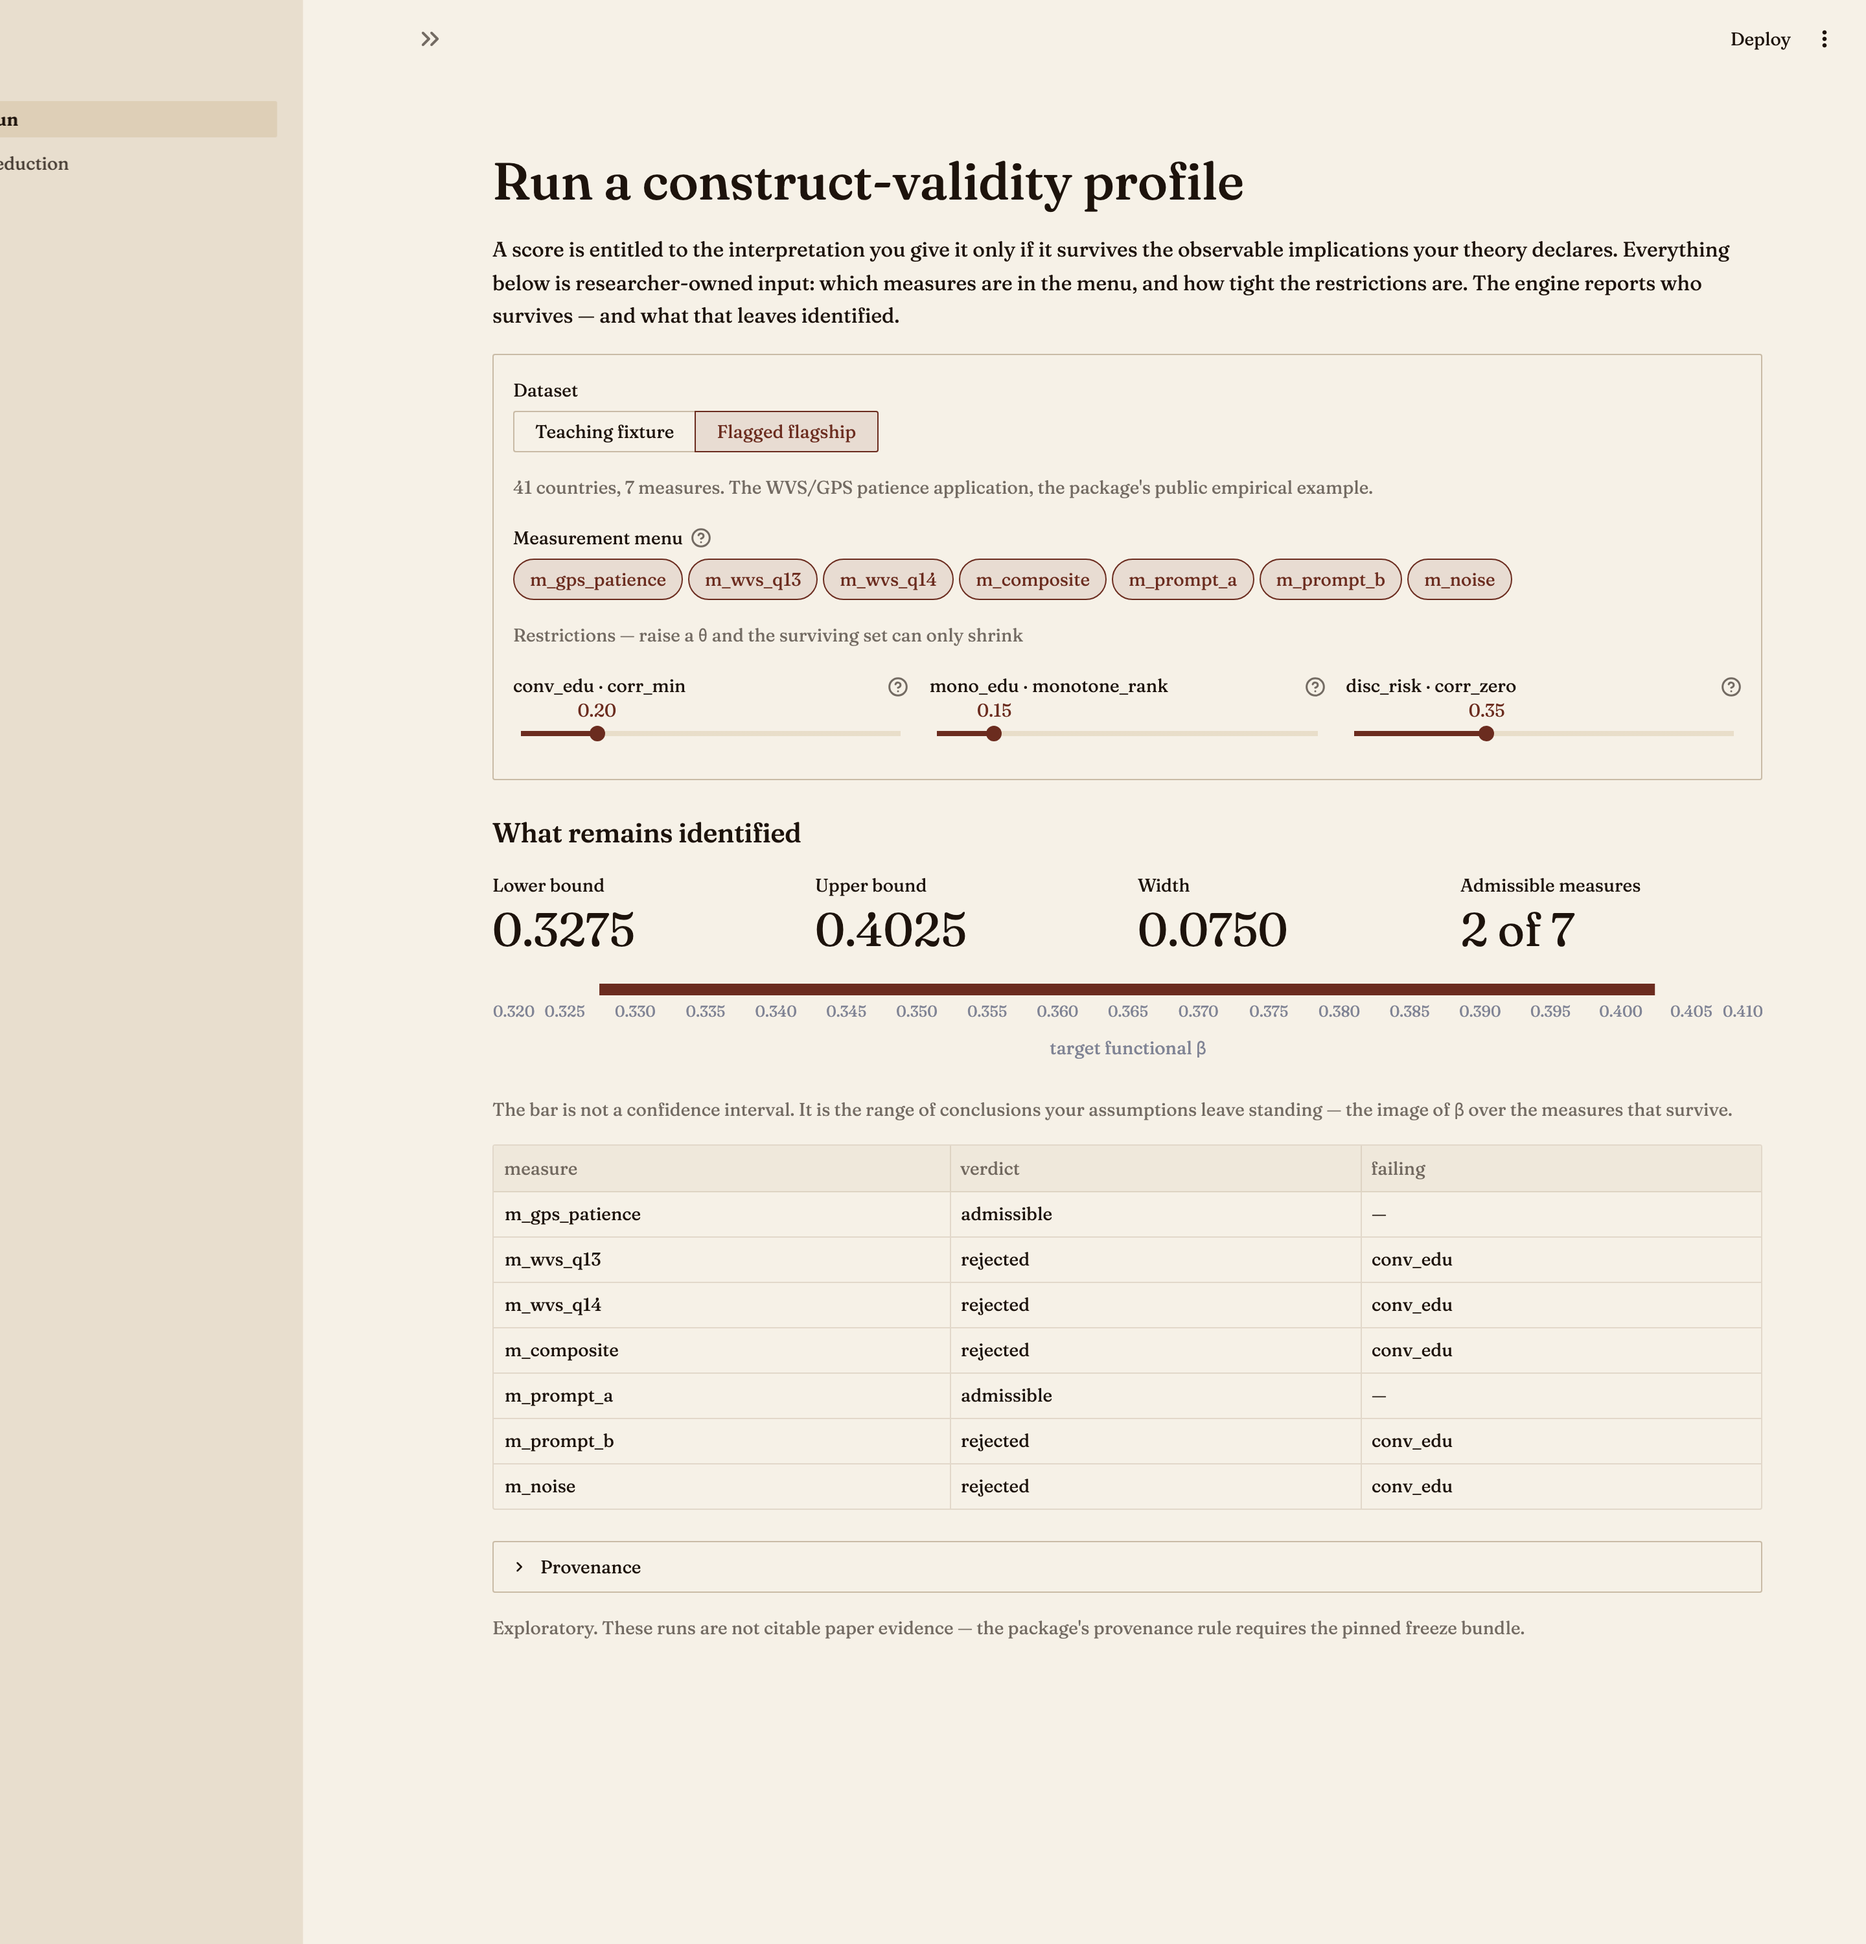
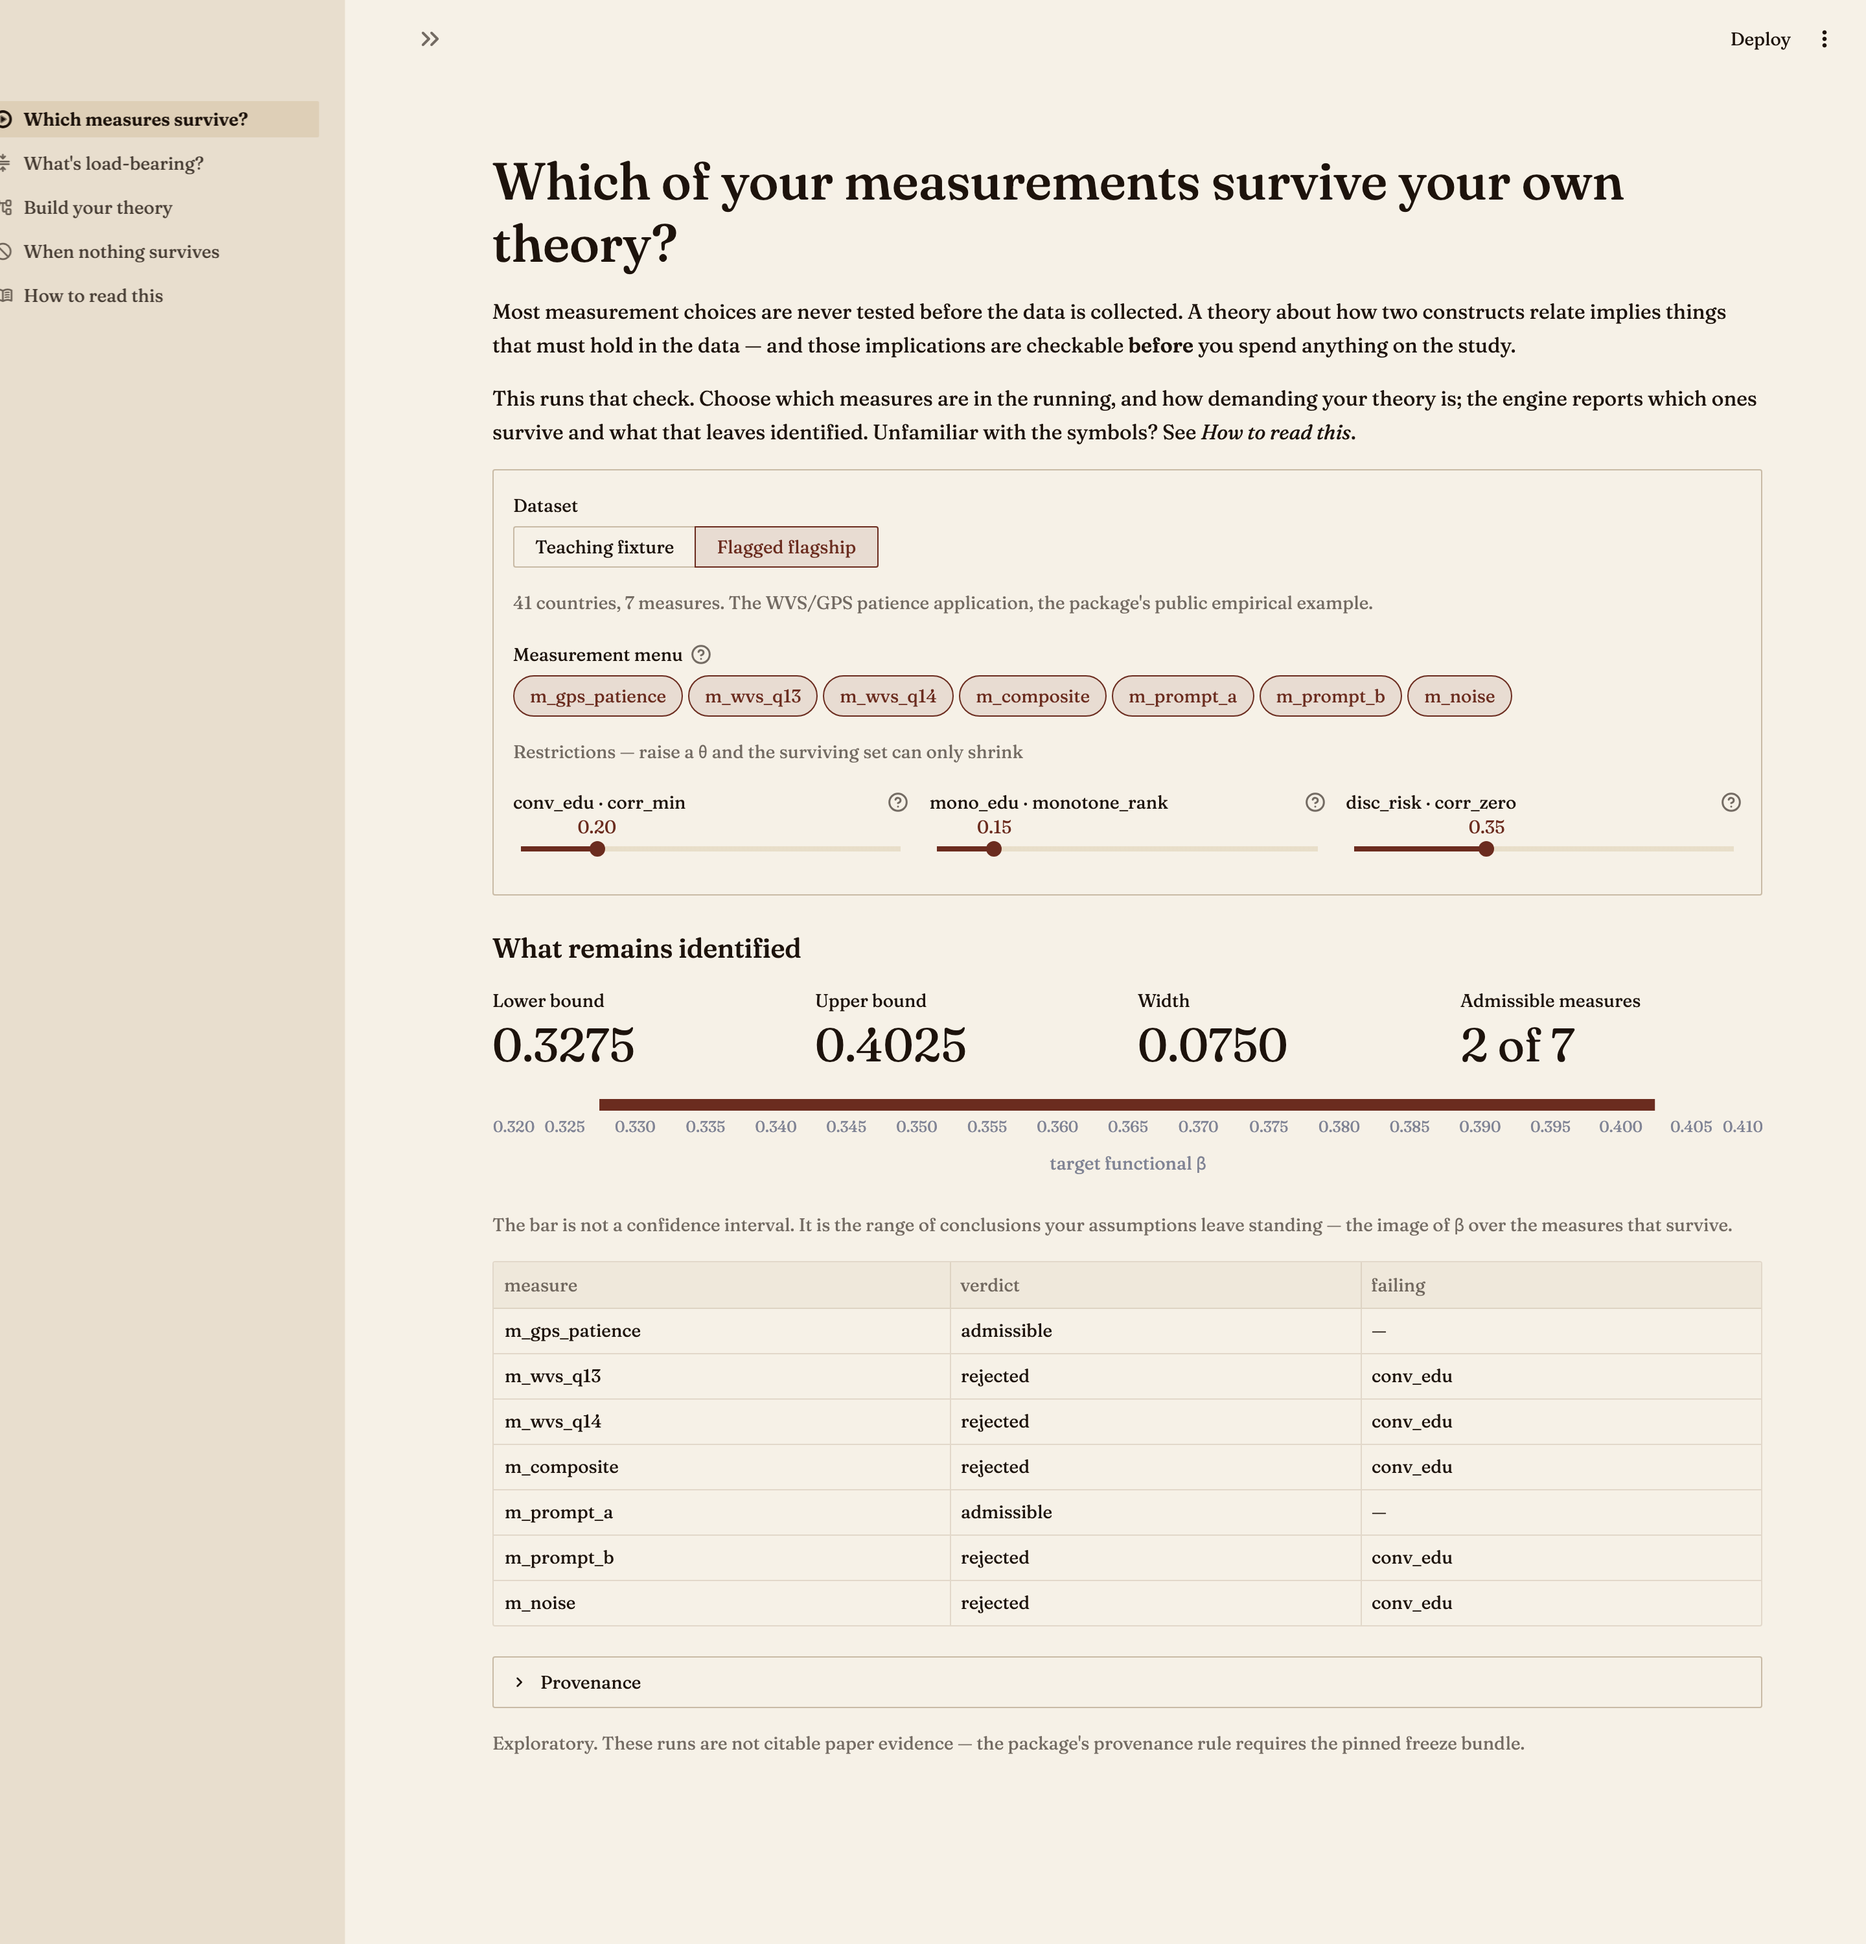
Copy: lead with the claim, and name the screens as questions
The front door opened on a methods sentence ('A score is entitled to the
interpretation you give it only if it survives the observable implications your
theory declares'). That is the register the market notes warn against: buyers do
not arrive asking for construct validity, and leading with the technique is the
documented failure mode.

Run now opens on the claim and the stakes -- most measurement choices go untested
before the data is collected, and the implications of a theory are checkable
before you spend anything -- then says what you are looking at.

Nav labels renamed from the tool's vocabulary to the reader's, and reordered so a
cold visitor looks before they build:
  Run             -> Which measures survive?
  Reduction       -> What's load-bearing?
  Build network   -> Build your theory
  Failure mode    -> When nothing survives
  Method          -> How to read this

'Failure mode' was the worst offender: it borrows a phrase that carries real
commercial weight for AI-system failures and points it at something else.

Also: cdp_interact.py takes CDP_PORT. The user's own Chrome can hold 9222, and
killing their browser to take a screenshot is not an acceptable trade.

diff --git a/streamlit_app.py b/streamlit_app.py
@@ -16,32 +16,32 @@ pg = st.navigation(
     [
         st.Page(
             "app_pages/run.py",
-            title="Run",
+            title="Which measures survive?",
             icon=":material/play_circle:",
             url_path="run",
             default=True,
         ),
         st.Page(
-            "app_pages/build_network.py",
-            title="Build network",
-            icon=":material/account_tree:",
-            url_path="build-network",
-        ),
-        st.Page(
             "app_pages/reduction.py",
-            title="Reduction",
+            title="What's load-bearing?",
             icon=":material/compress:",
             url_path="reduction",
         ),
         st.Page(
+            "app_pages/build_network.py",
+            title="Build your theory",
+            icon=":material/account_tree:",
+            url_path="build-network",
+        ),
+        st.Page(
             "app_pages/failure_mode.py",
-            title="Failure mode",
+            title="When nothing survives",
             icon=":material/block:",
             url_path="failure-mode",
         ),
         st.Page(
             "app_pages/method.py",
-            title="Method",
+            title="How to read this",
             icon=":material/menu_book:",
             url_path="method",
         ),

diff --git a/app_pages/run.py b/app_pages/run.py
@@ -15,13 +15,18 @@ from core.engine import (
 
 INK = "#6b2c1f"
 
-st.title("Run a construct-validity profile")
+st.title("Which of your measurements survive your own theory?")
 
 st.markdown(
-    "A score is entitled to the interpretation you give it only if it survives the "
-    "observable implications your theory declares. Everything below is researcher-owned "
-    "input: which measures are in the menu, and how tight the restrictions are. "
-    "The engine reports who survives — and what that leaves identified."
+    "Most measurement choices are never tested before the data is collected. A theory "
+    "about how two constructs relate implies things that must hold in the data — and "
+    "those implications are checkable **before** you spend anything on the study."
+)
+
+st.markdown(
+    "This runs that check. Choose which measures are in the running, and how demanding "
+    "your theory is; the engine reports which ones survive and what that leaves "
+    "identified. Unfamiliar with the symbols? See *How to read this*."
 )
 
 # ---------------------------------------------------------------- controls

diff --git a/cdp_interact.py b/cdp_interact.py
@@ -13,12 +13,15 @@ import argparse
 import asyncio
 import base64
 import json
+import os
 import urllib.request
 from pathlib import Path
 
 import websockets
 
-DEBUG_PORT = 9222
+# Overridable: the user's own Chrome can hold the default 9222, and killing their
+# browser to take a screenshot is not an acceptable trade. Use CDP_PORT=9333 instead.
+DEBUG_PORT = int(os.environ.get("CDP_PORT", "9222"))
 
 
 def ws_url() -> str:

diff --git a/README.md b/README.md
@@ -30,15 +30,15 @@ uv pip install -e .
 .venv/bin/streamlit run streamlit_app.py
 ```
 
-Four screens:
+Five screens, named as questions rather than as tools:
 
 | Route | Screen | What it shows |
 |---|---|---|
-| `/` | **Run** | Menu + restriction θ as live controls. Reports the admissible set `M*`, the identified range `[L, U]`, and which restriction rejected each measure. |
-| `/reduction` | **Reduction** | Leave-one-out over the menu. Shows which measures are load-bearing and which are inert. |
-| `/failure-mode` | **Failure mode** | One slider: the tightness multiplier. Drive it far enough and every measure dies — the empty admissible set, shown as the finding it is. |
-| `/method` | **Method** | How to read the numbers, for a reader who has never seen the tool. |
-| `/build-network` | **Build network** | Author your own nomological network: change restriction types, re-point what each binds to, tighten θ. Teaches the trade — bind to an **auxiliary** column and the reduction curve survives; bind to a **measure** and it does not. |
+| `/` | **Which measures survive?** | Menu + restriction θ as live controls. Reports the admissible set `M*`, the identified range `[L, U]`, and which restriction rejected each measure. |
+| `/reduction` | **What's load-bearing?** | Leave-one-out over the menu. Shows which measures are load-bearing and which are inert. |
+| `/build-network` | **Build your theory** | Author your own nomological network: change restriction types, re-point what each binds to, tighten θ. Teaches the trade — bind to an **auxiliary** column and the reduction curve survives; bind to a **measure** and it does not. |
+| `/failure-mode` | **When nothing survives** | One slider: the tightness multiplier. Drive it far enough and every measure dies — the empty admissible set, shown as the finding it is. |
+| `/method` | **How to read this** | What `M*`, `[L, U]`, θ and width mean, for a reader who has never seen the tool. |
 
 The network builder is the pedagogical centrepiece. It deliberately lets the reader walk
 into the structural trap (a restriction anchored to a measure) and then shows the engine
